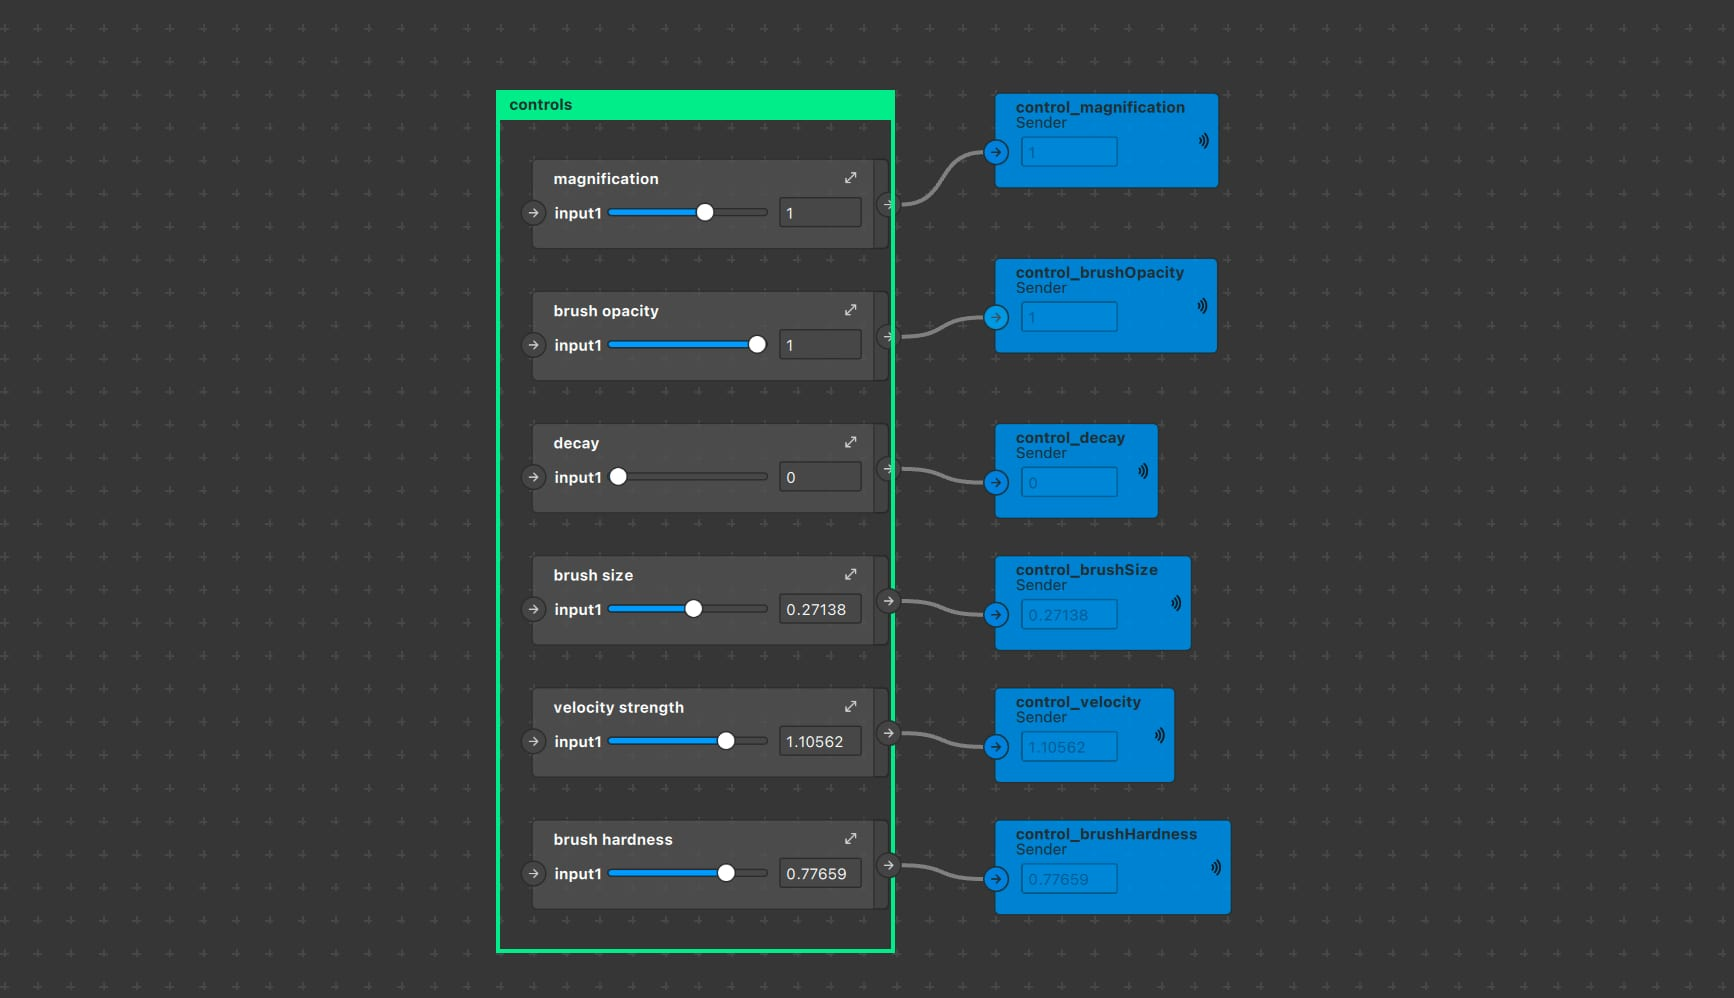
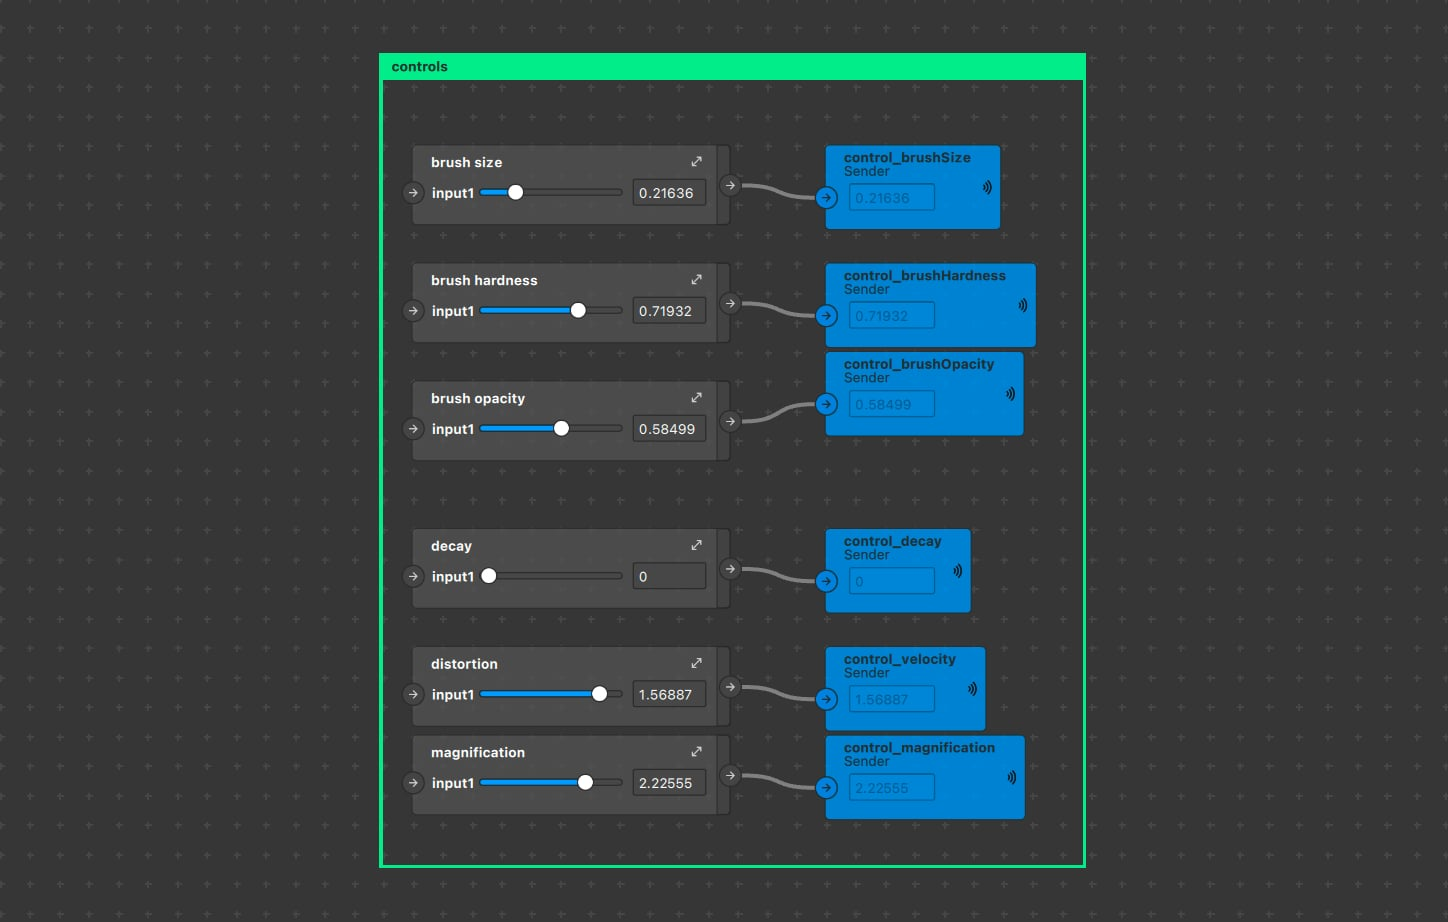
refined brush behavior

Changed region(s): [[0.2486, 0.0304, 0.7769, 0.9718]]

diff --git a/README.md b/README.md
@@ -1,14 +1,25 @@
-# Meta Spark UV Distortion Painter
+# Meta Spark Liquefy
 
-This effect is a simple UV distortion painter, created from an SDF circle and some texture transforms. It's purely patch-based so it should be easy to understand by stepping through the node graph previews. 
+This effect is like the liquefy filter in Photoshop. It lets the user smudge the camera texture by swiping their finger on the screen. 
 
-![screenshot](./spark-uv-distortion-painter.jpg)
+![screenshot](./spark-liquefy.jpg)
 
-It comes with some slider controls so you can play around with the effect in the simulator. 
+[Demo video](https://youtu.be/3UbakQ7MHEw)
+
+There are slider controls in the patch editor so you can easily adjust the parameters to fit your project.
 
 ![controls](./controls.jpg)
 
-Inspiration: https://www.shadertoy.com/view/sdjyRV
+Brush controls include size, hardness, and opacity. It makes smooth strokes even with fast movements, using an [SDF line segment](https://www.shadertoy.com/view/Wlfyzl) by Inigo Quilez. [Brush Demo](https://www.youtube.com/watch?v=ThGGqbRPysY&ab_channel=JoshBeckwith)
+
+Decay will slowly return the distortion back to normal.
+
+And of course the distortion slider controls the strength of the distortion.
+
+
+## Inspiration
+
+From Fabrice Neyret: https://www.shadertoy.com/view/sdjyRV
 
 
 ## Donations
